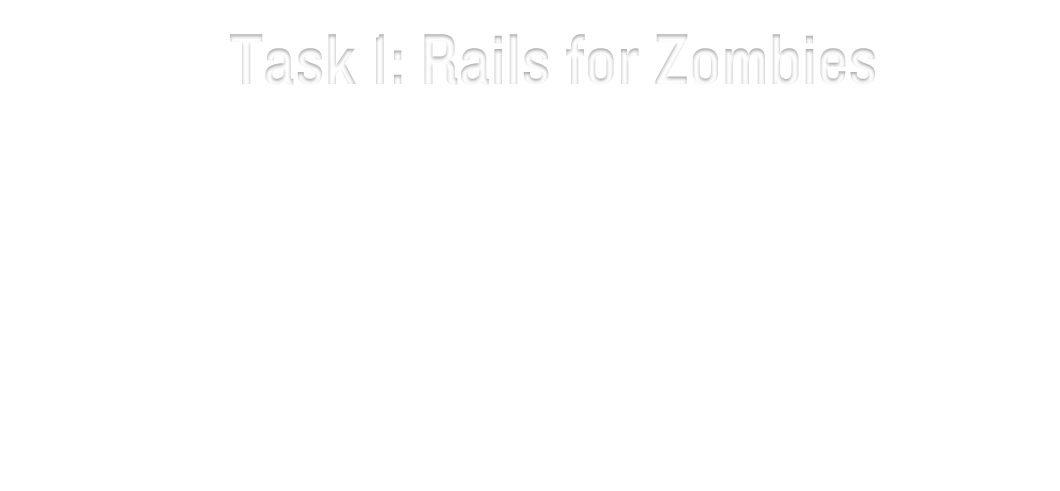
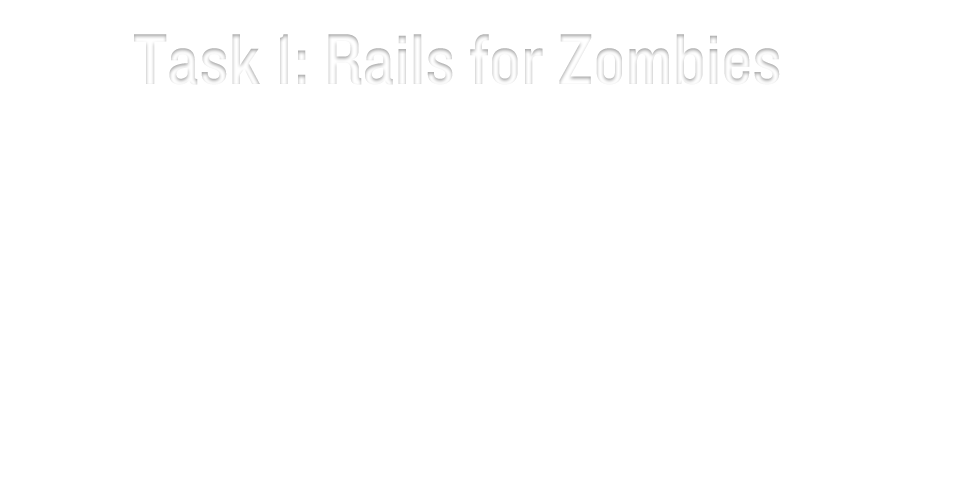
changed start task image along with the button with relative positioning

Changed region(s): [[0.1245, 0.0611, 0.8402, 0.1833]]

diff --git a/public/stylesheets/style.css b/public/stylesheets/style.css
@@ -95,7 +95,7 @@ nav {
 
 #start_task {
 	bottom: 150px;
-	left: 184px;
+	left: 89px;
 	position: relative;
 }
 
